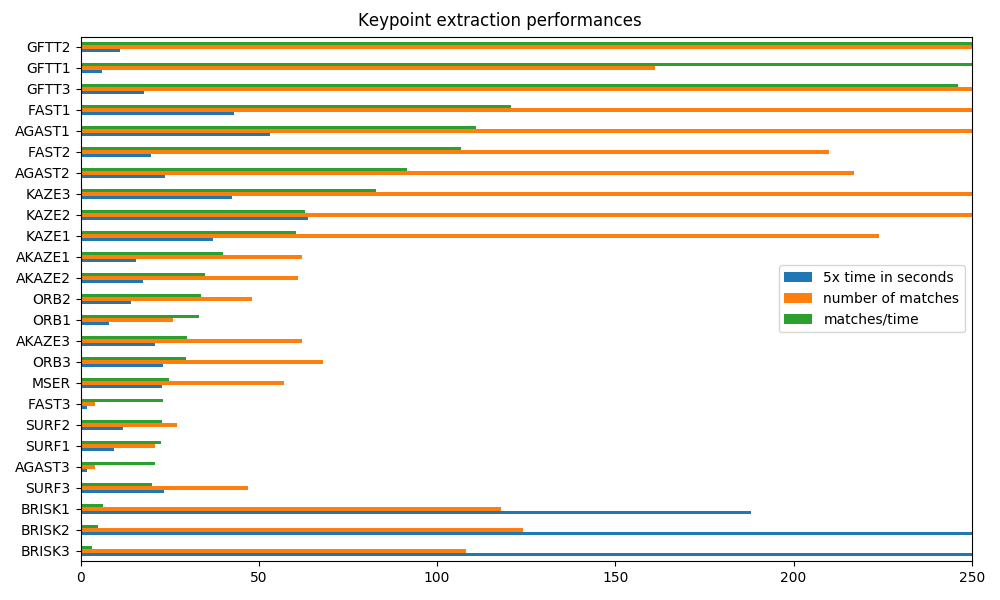
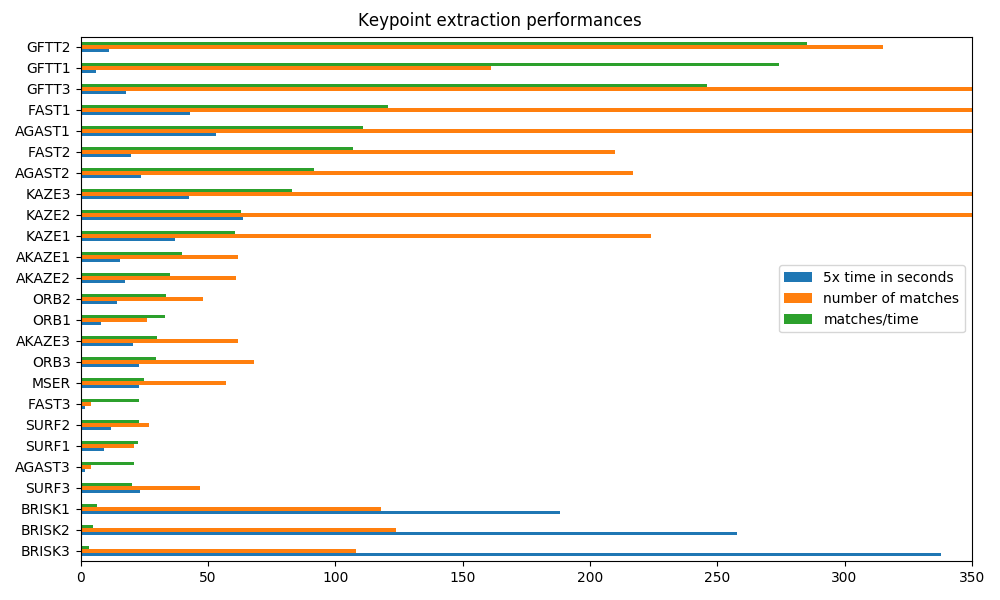
fiw figure height

diff --git a/8.time-reference-plot.py b/8.time-reference-plot.py
@@ -37,7 +37,7 @@ df = pd.DataFrame(
 )
 df = df.sort_values(['matches/time'])
 df.plot(ax=axes, kind='barh')
-plt.xlim([0,250])
+plt.xlim([0,350])
 
 plt.suptitle('Keypoint extraction performances')
 plt.tight_layout(rect=(0,0,1,0.97))
